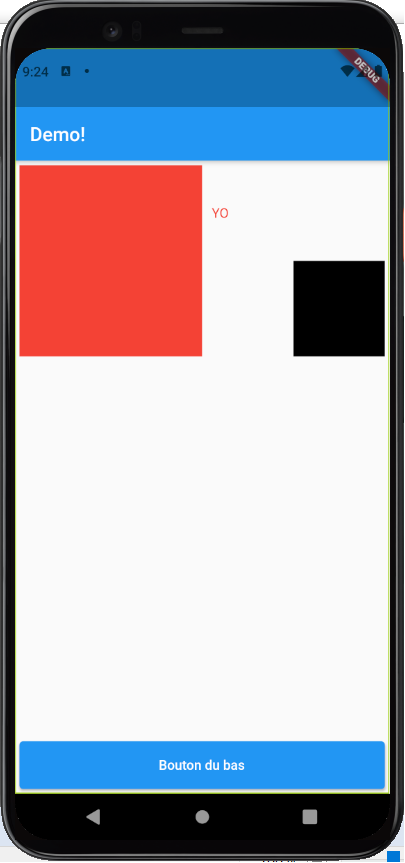
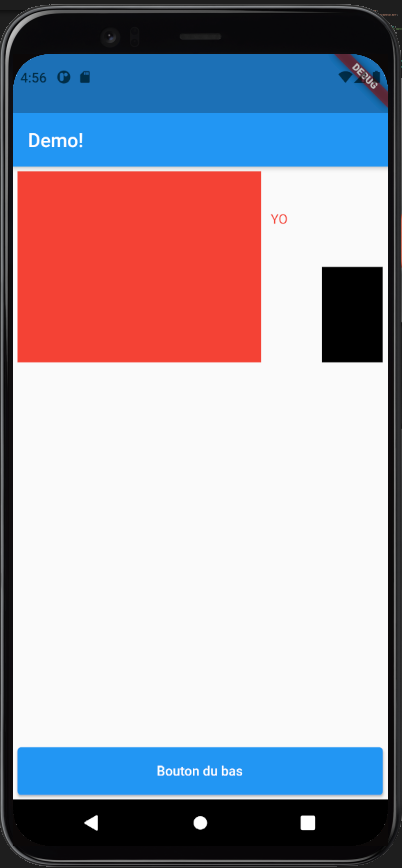
Révision des exercices de la semaine 1

Changed region(s): [[0.0, 0.0, 1.0, 1.0], [0.6866, 0.241, 0.7164, 0.2711]]

diff --git a/docs/layout.html b/docs/layout.html
@@ -90,7 +90,7 @@
                             <h3>Exercice mise_en_page_simple</h3>
                             <p>
                                 Vous devez reproduire la mise en page de l'image suivante dans une appli Flutter appelée maj_simple.
-                                Le bloc rouge doit faire 200 de haut. Le bouton du bas doit être en bas.
+                                Le bloc rouge doit faire 200 de haut et prendre les 2/3 de l'écran. Le bouton du bas doit être en bas.
                                 <img src="img/s2e1.png" style="width: 200px;">
                             </p>
                             
